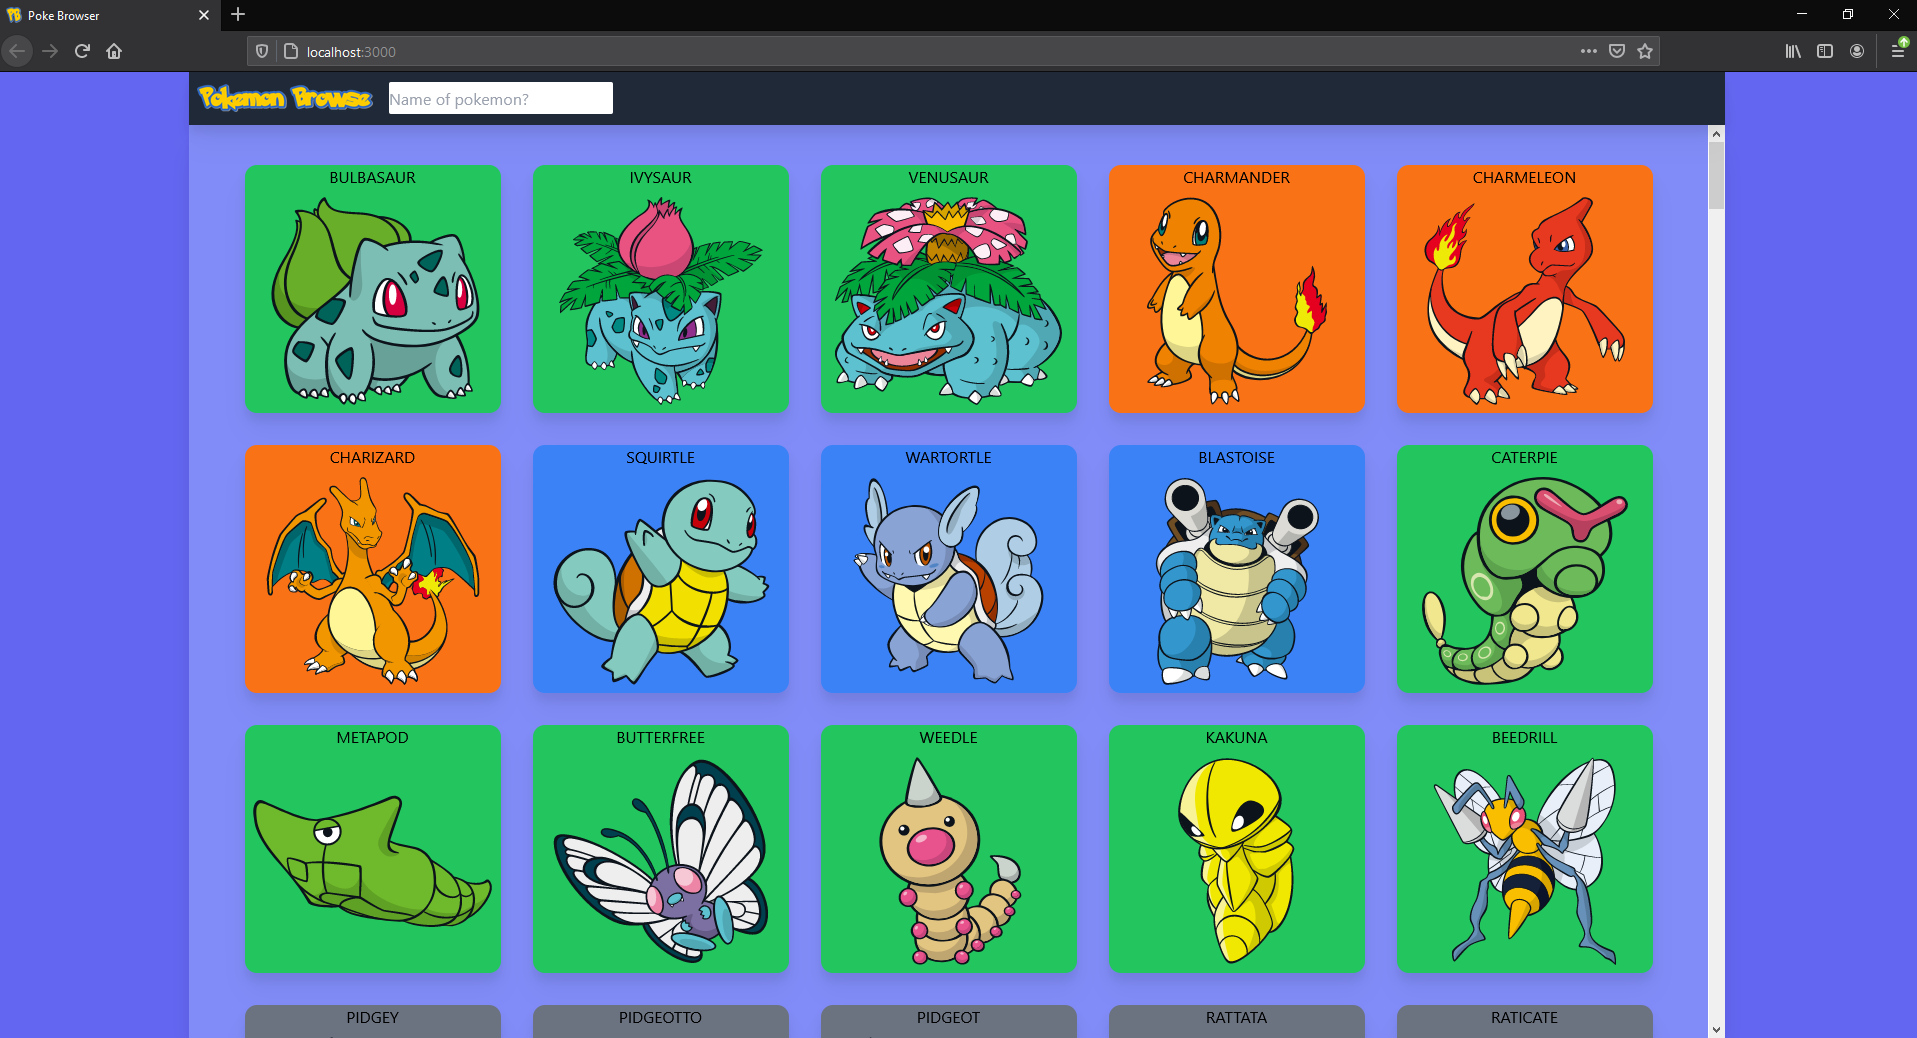
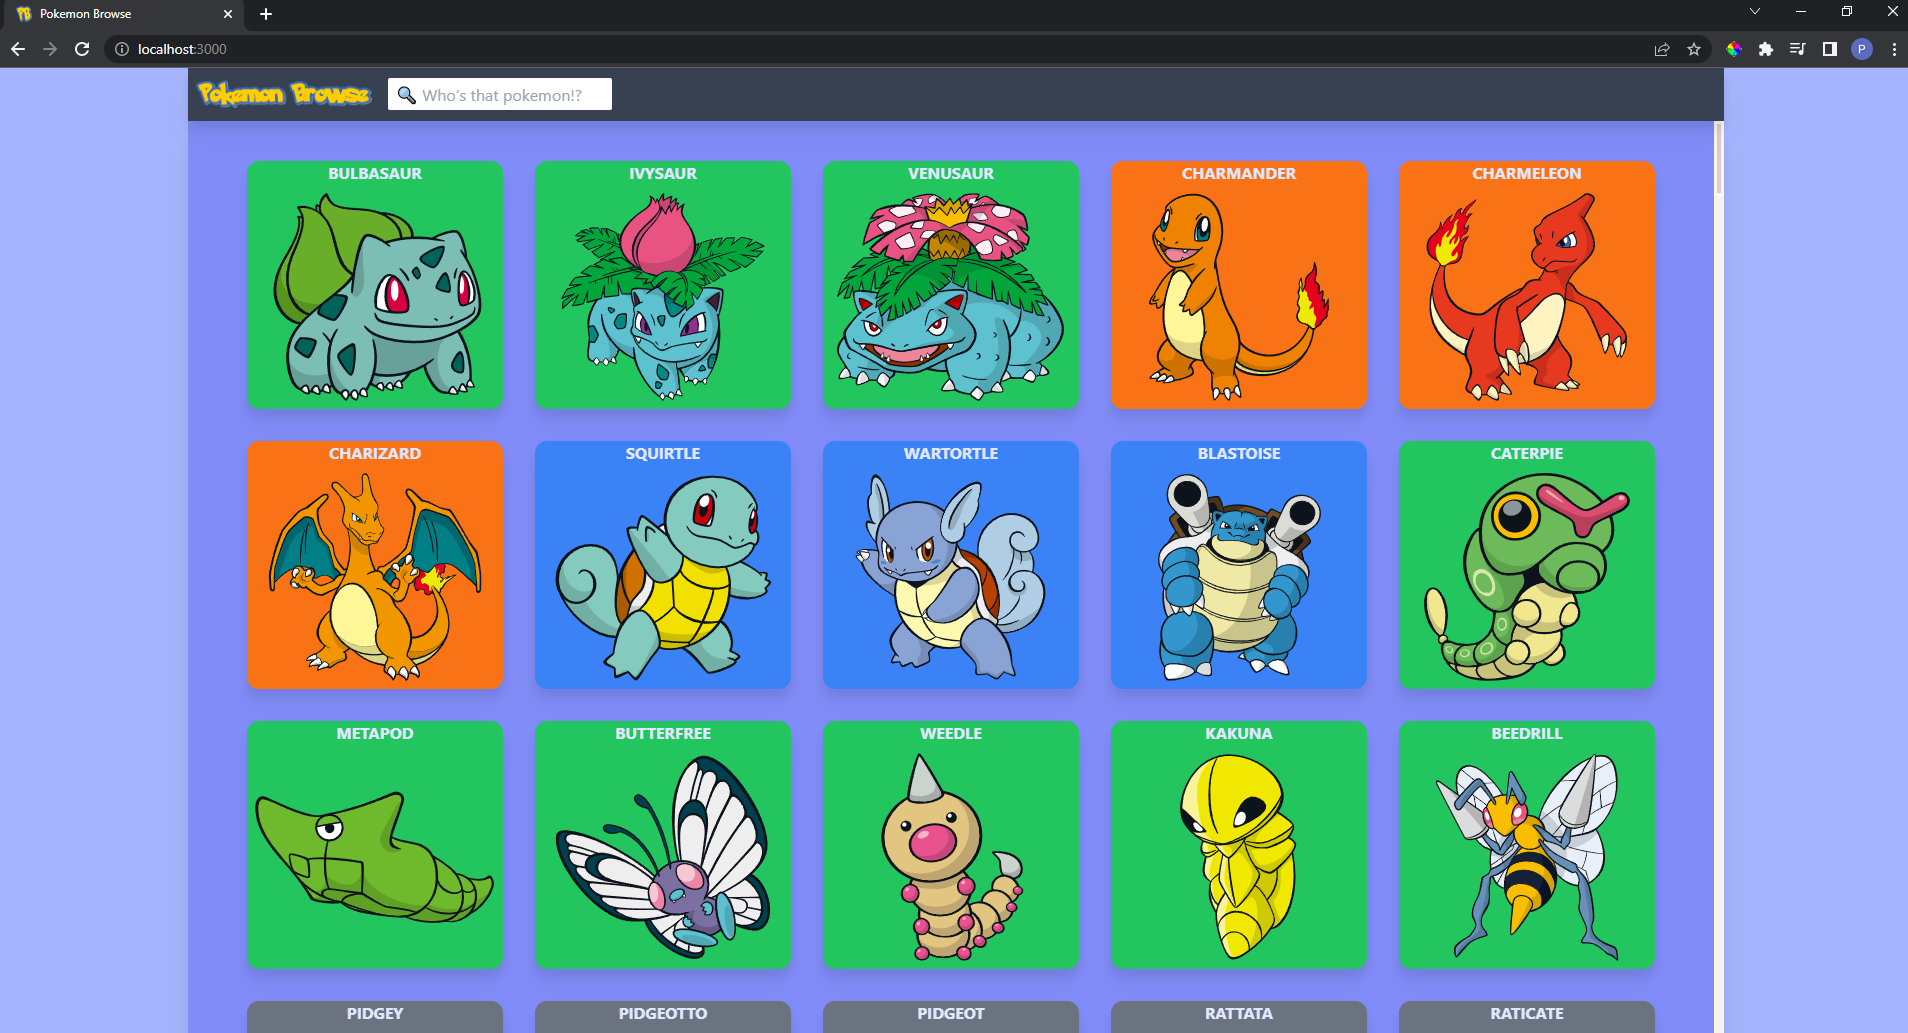
Added basic page routing and 404 page. Updated design. Updated promo picture.

diff --git a/src/App.js b/src/App.js
@@ -1,58 +1,16 @@
-import { Background } from "./components/Background"
-import { PokemonCard } from "./components/PokemonCard"
-import {useEffect, useState} from 'react'
+import {Route, Routes, BrowserRouter } from "react-router-dom"
+import {Pokebrowse} from "./pages/Pokebrowse"
+import {Notfound} from "./pages/Notfound"
 
 function App() {
-  document.title = "Poke Browser"
-
-  const nrOfPokemonsToGet = 200
-  const [pokemons, setPokemons] = useState([])
-  const [filteredPokemons, setFilteredPokemons] = useState([])
-  const [input, setInput] = useState("")
-
-
-  // fetch pokemon everytime limit changes
-  useEffect( () => {
-    const getPokemonWithLimit = async (nrOfPokemonsToGet) => {
-      const response = await fetch(`https://pokeapi.co/api/v2/pokemon?limit=${nrOfPokemonsToGet}`, {
-        method: 'GET',
-        headers: {
-          'Content-Type': 'application/json',
-          'Accept': 'application/json'
-        }
-      })
-      const json = await response.json()
-      setPokemons(json.results)
-      setFilteredPokemons(json.results)
-    }
-    try{
-      getPokemonWithLimit(nrOfPokemonsToGet)
-    }catch(error){
-      console.error("Failed getting pokemon: ", error)
-    }
-    
-  },[])
-
-  // filter pokemon by name when input changes, or new pokemon
-  useEffect( () => {
-    const filterPokemon = () => {
-      setFilteredPokemons(pokemons.filter(pokemon => pokemon.name.toLowerCase().includes(input.toLowerCase())))
-    }
-    filterPokemon()
-  },[input, pokemons])
-
-
   return (
-    <Background>
-        <nav className="flex items-center w-4/5 overflow-x-auto bg-gray-800 h-14 gap-x-2 drop-shadow-xl">
-          <img src={require("./img/pokemon_browse.png")} alt="pokemon_fetch" className="w-48 px-2"/>
-          <input type="text" className="w-56 h-8 rounded-sm" placeholder="Name of pokemon?" value={input} onInput={e => setInput(e.target.value)}/>
-        </nav>
-        <ul className="flex flex-wrap justify-center w-4/5 h-full gap-8 p-10 overflow-y-auto bg-indigo-400 shadow-xl">
-          {filteredPokemons.map((pokemon, index) => (<PokemonCard key={pokemon.name} pokemon={pokemon}/>))}
-        </ul>
-    </Background>
-  )
+    <BrowserRouter>
+      <Routes>
+        <Route path="*" element={<Notfound />}/>
+        <Route path="/" element={<Pokebrowse />}/>
+      </Routes>
+    </BrowserRouter>
+  );
 }
 
 export default App

diff --git a/src/pages/Pokebrowse.jsx b/src/pages/Pokebrowse.jsx
@@ -1,0 +1,56 @@
+import { PokemonCard } from "../components/PokemonCard";
+import { Background } from "../components/Background";
+import {useState, useEffect} from 'react';
+
+export const Pokebrowse = () => {
+  document.title = "Pokemon Browse"
+
+  const nrOfPokemonsToGet = 200
+  const [pokemons, setPokemons] = useState([])
+  const [filteredPokemons, setFilteredPokemons] = useState([])
+  const [input, setInput] = useState("")
+
+
+  // fetch pokemon everytime limit changes
+  useEffect( () => {
+    const getPokemonWithLimit = async (nrOfPokemonsToGet) => {
+      const response = await fetch(`https://pokeapi.co/api/v2/pokemon?limit=${nrOfPokemonsToGet}`, {
+        method: 'GET',
+        headers: {
+          'Content-Type': 'application/json',
+          'Accept': 'application/json'
+        }
+      })
+      const json = await response.json()
+      setPokemons(json.results)
+      setFilteredPokemons(json.results)
+    }
+    try{
+      getPokemonWithLimit(nrOfPokemonsToGet)
+    }catch(error){
+      console.error("Failed getting pokemon: ", error)
+    }
+    
+  },[])
+
+  // filter pokemon by name when input changes, or new pokemon
+  useEffect( () => {
+    const filterPokemon = () => {
+      setFilteredPokemons(pokemons.filter(pokemon => pokemon.name.toLowerCase().includes(input.toLowerCase())))
+    }
+    filterPokemon()
+  },[input, pokemons])
+
+
+  return (
+    <Background>
+        <nav className="flex items-center w-4/5 overflow-x-auto bg-gray-700 h-14 gap-x-2 drop-shadow-xl">
+          <img src={require("../img/pokemon_browse.png")} alt="pokemon_fetch" className="w-48 px-2"/>
+          <input type="text" className="w-56 h-8 px-2 rounded-sm" placeholder="🔍 Who's that pokemon!?" value={input} onInput={e => setInput(e.target.value)}/>
+        </nav>
+        <ul className="flex flex-wrap justify-center w-4/5 h-full gap-8 p-10 overflow-y-auto bg-indigo-400 shadow-xl scrollbar">
+          {filteredPokemons.map(pokemon => <PokemonCard key={pokemon.name} pokemon={pokemon}/>)}
+        </ul>
+    </Background>
+  )
+}

diff --git a/src/index.css b/src/index.css
@@ -2,6 +2,34 @@
 @tailwind components;
 @tailwind utilities;
 
+@layer utilities {
+  
+  /*Firefox*/
+  .scrollbar {
+    scrollbar-width: thin;
+    scrollbar-color: #000 #fff;
+  }
+
+  /*Other browsers*/
+  .scrollbar::-webkit-scrollbar {
+    width: 10px;
+  }
+
+  .scrollbar::-webkit-scrollbar-track {
+    background-color: #f7f4ed;
+  }
+
+  .scrollbar::-webkit-scrollbar-thumb {
+    background-color: #e0cbcb;
+    border: 3px solid #f6f7ed;
+  }
+
+  .scrollbar::-webkit-scrollbar-thumb:hover {
+    background-color: #c0a0b9;
+  }
+  
+}
+
 body {
   margin: 0;
   font-family: -apple-system, BlinkMacSystemFont, 'Segoe UI', 'Roboto', 'Oxygen',

diff --git a/src/components/PokemonCard.jsx b/src/components/PokemonCard.jsx
@@ -43,7 +43,7 @@ export const PokemonCard = ({pokemon}) => {
 
   return (
   <div className={`flex flex-col w-64 h-fit group ${details?.types ? typeColors[details.types[0].type.name] : typeColors.normal} rounded-xl drop-shadow-xl`}>
-    <p className="text-center py-2w-full">{pokemon.name.toUpperCase()}</p>
+    <p className="font-bold text-center text-indigo-100 py-2w-full">{pokemon.name.toUpperCase()}</p>
     <img src={details?.sprites?.other?.dream_world?.front_default} alt={pokemon.name} className="h-56 p-2 transition group-hover:translate-x-2"/>
     
     {/* TODO: Pokemon stats (working but looks uggly)

diff --git a/src/pages/Notfound.jsx b/src/pages/Notfound.jsx
@@ -1,0 +1,14 @@
+import {Link} from "react-router-dom"
+
+export const Notfound = () => {
+  return(
+    <div className="flex flex-col items-center justify-center h-screen w-scren gap-y-3">
+      <h1 className="text-2xl">404</h1>
+      <p className="text-lg">Page not found</p>
+      <Link to="/">
+      <button>🤩<span className="text-blue-700 underline">to Poke Browse</span>🤩</button>
+      </Link>
+      
+    </div>
+  )
+}

diff --git a/src/components/Background.jsx b/src/components/Background.jsx
@@ -1,4 +1,4 @@
 export const Background = ({children}) => {
-  return <div className="flex flex-col items-center justify-center w-screen h-screen bg-indigo-500">{children}</div>
+  return <div className="flex flex-col items-center justify-center w-screen h-screen font-sans bg-indigo-300">{children}</div>
 }
   
